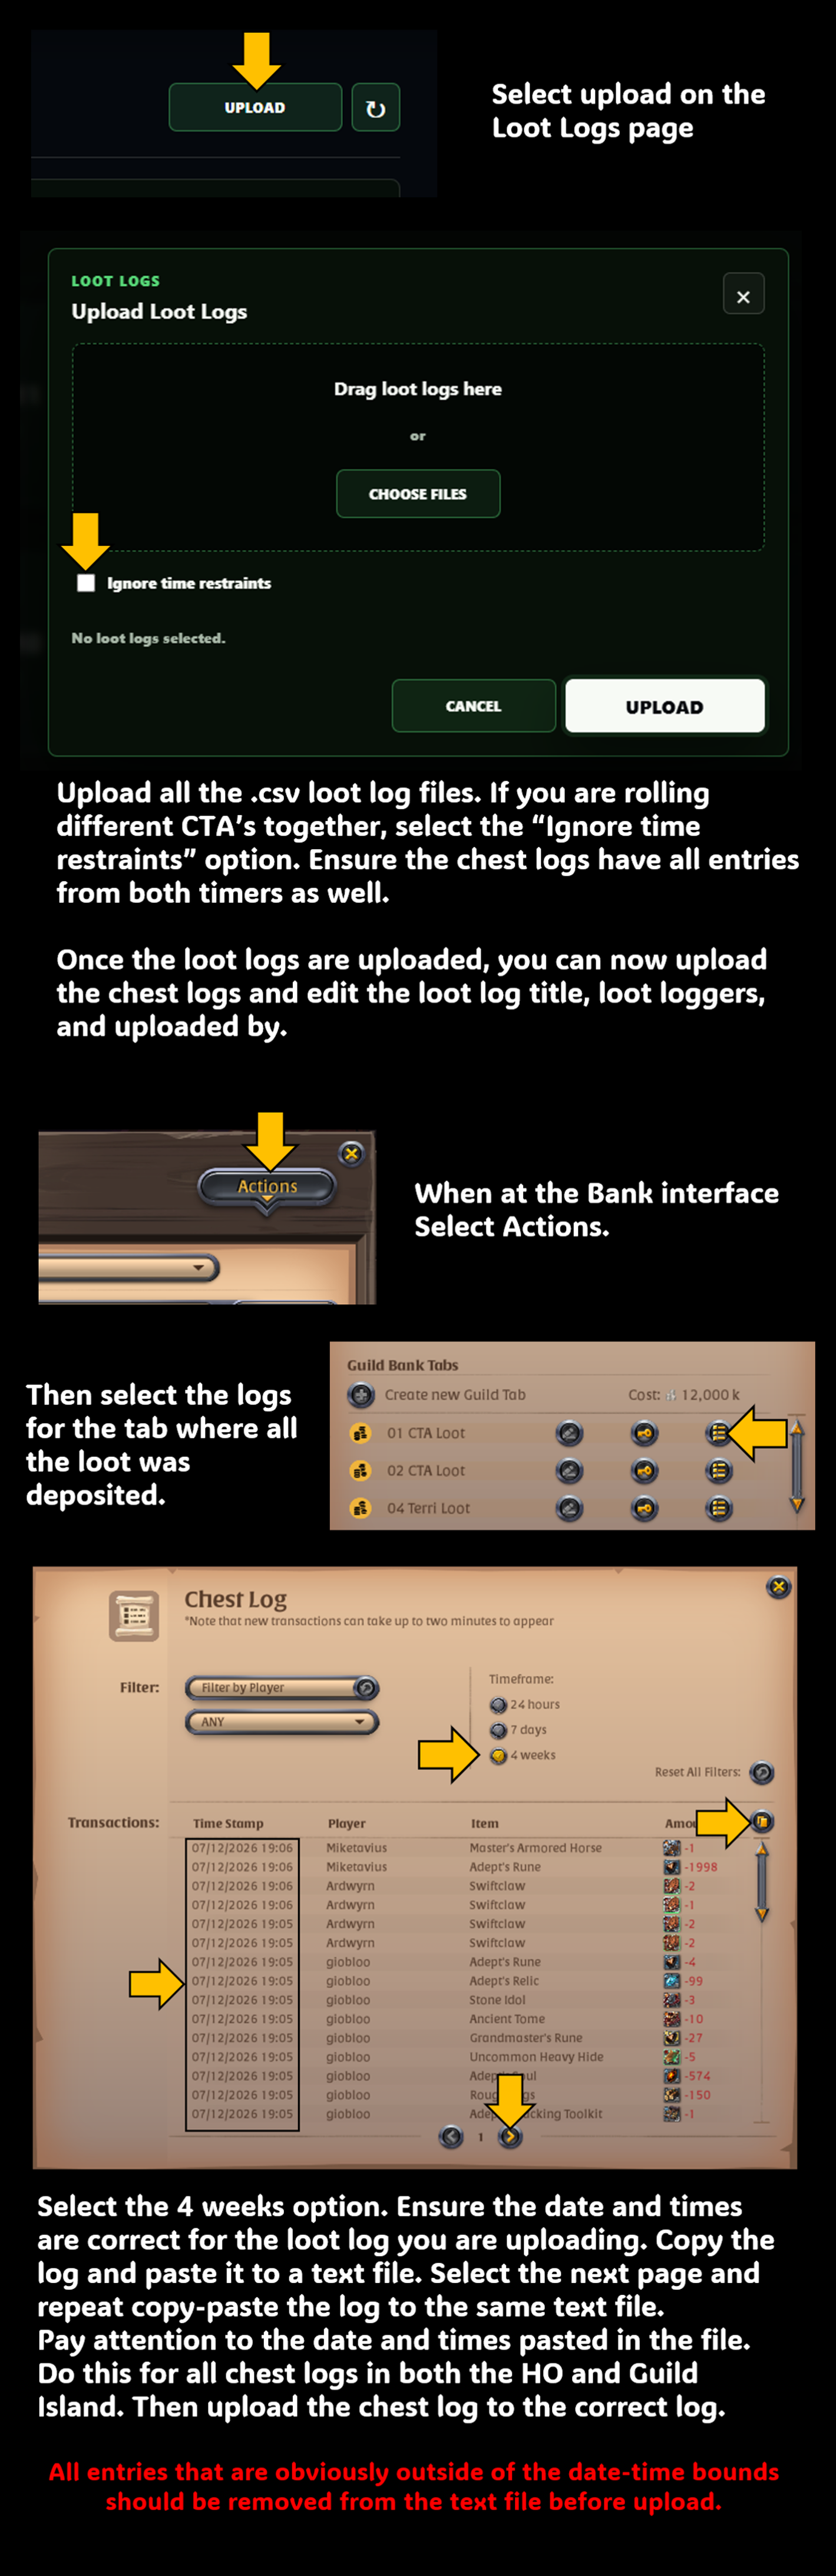
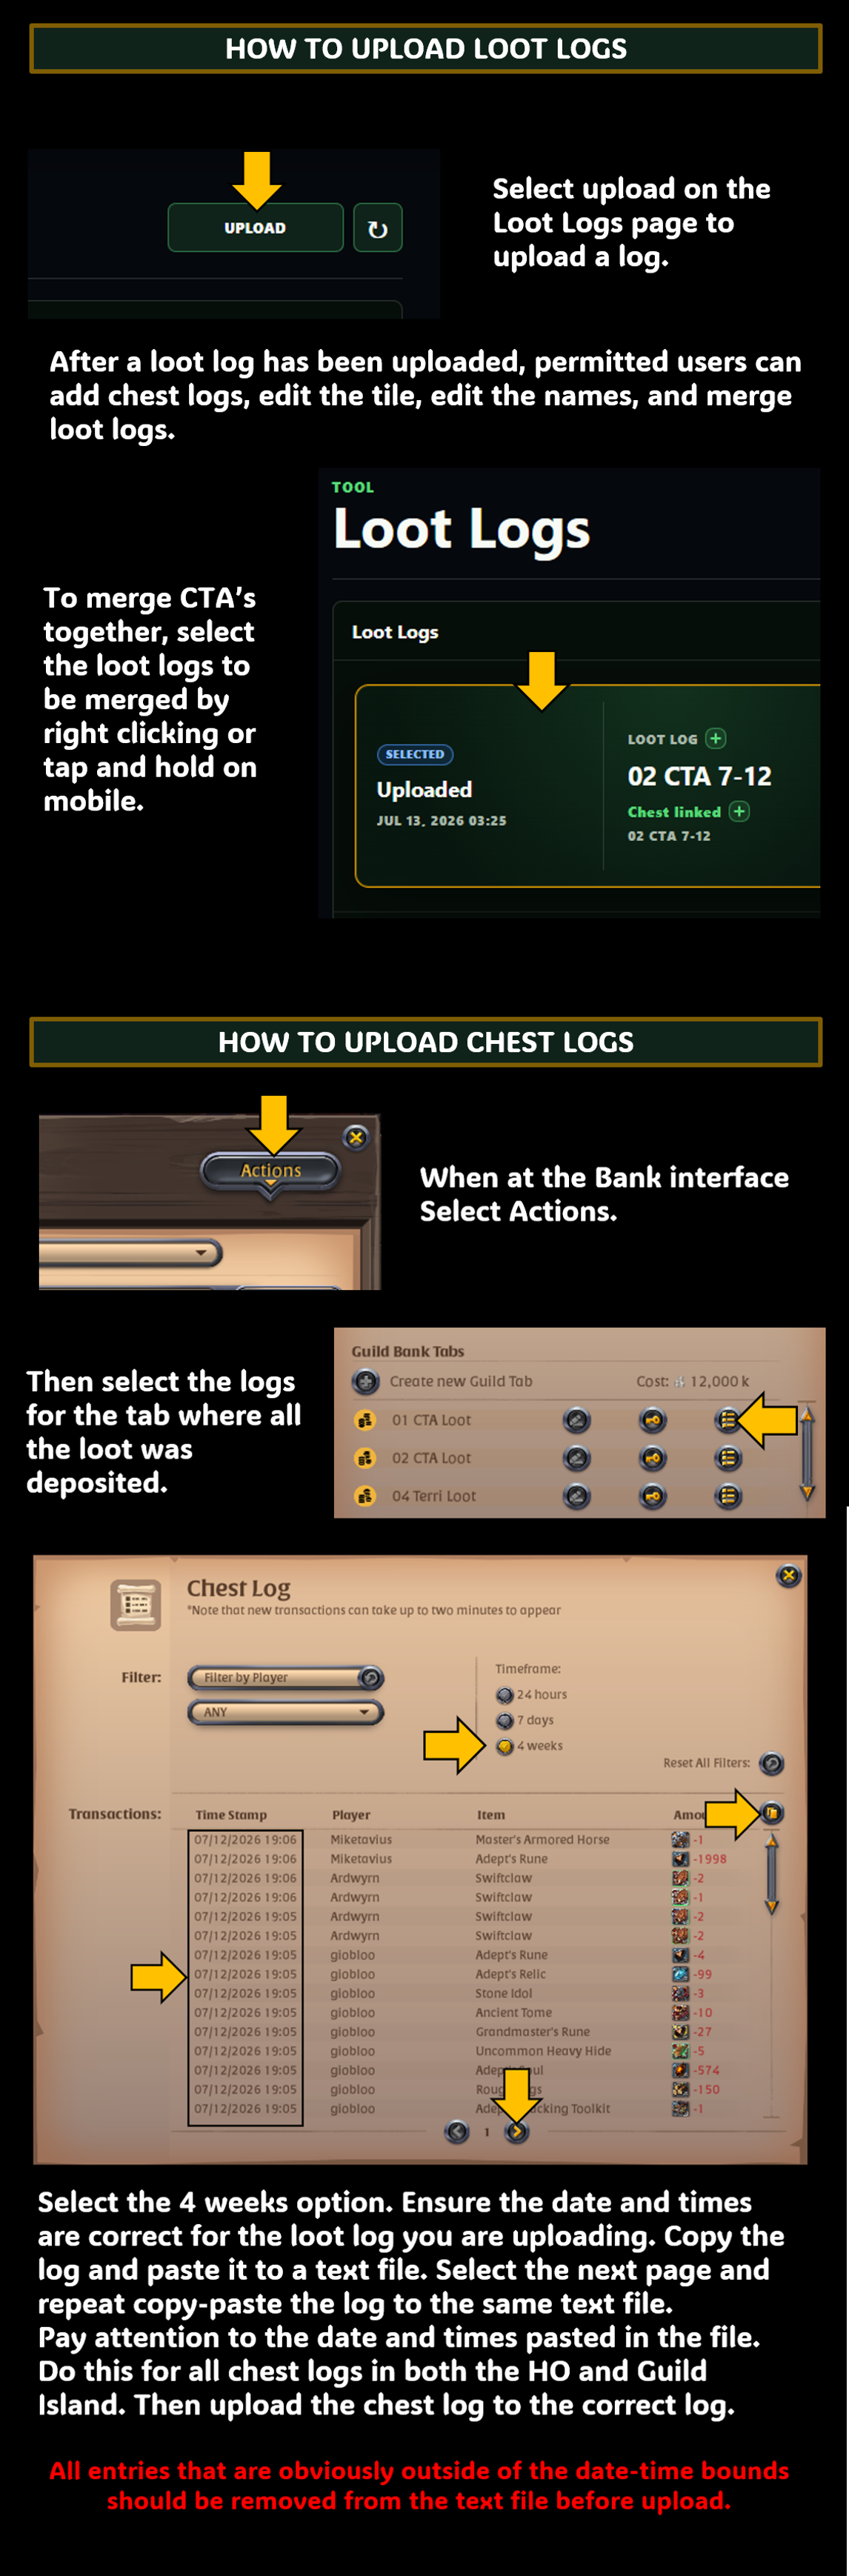
Replace loot upload instructions image

Changed region(s): [[0.0305, 0.0, 1.0, 1.0]]

diff --git a/src/App.test.jsx b/src/App.test.jsx
@@ -92,7 +92,7 @@ describe('App', () => {
     expect(screen.getByText('View current Militant guild members and fame totals.')).toBeInTheDocument();
     expect(screen.getByRole('heading', { name: 'Permissions' })).toBeInTheDocument();
     expect(screen.getByText('Map Discord roles to webapp access controls.')).toBeInTheDocument();
-    expect(screen.getByLabelText('Application version')).toHaveTextContent('v1.8.45');
+    expect(screen.getByLabelText('Application version')).toHaveTextContent('v1.8.46');
     expect(screen.getByLabelText('Logged in as Onslawht')).toBeInTheDocument();
     expect(container.querySelector('.topbar-profile-avatar')).toHaveAttribute(
       'src',